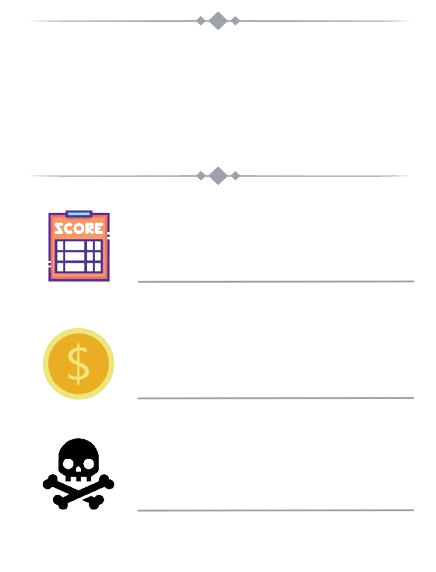
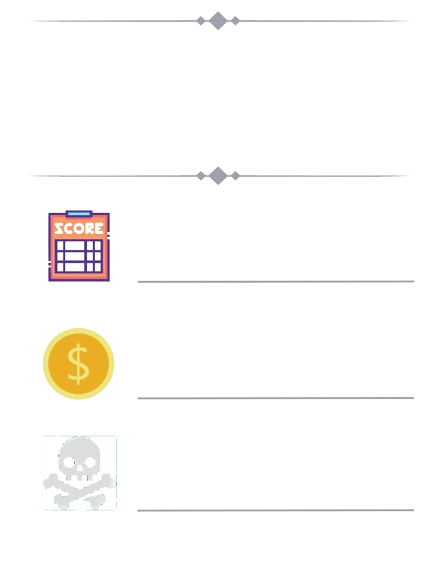
Changed player panel

Changed region(s): [[0.0894, 0.743, 0.2683, 0.8916]]

diff --git a/src/main/java/view/BoardView.java b/src/main/java/view/BoardView.java
@@ -15,30 +15,63 @@ public class BoardView {
 	private TooltipModule tooltips;
 	private Text wave;
 
+	private Sprite sponsor;
+	private Sprite logo;
+
 	public BoardView(Board board, GraphicEntityModule graphics, TooltipModule tooltips) {
 		int width = 1920;
 		int height = 1080;
 
-		graphics.createRectangle().setFillColor(0xebebfb).setHeight(height).setWidth(width);
+		int boardBackgroundColor = 0xebebeb;
+		int dashboardBackgroundColor = 0x1f0342;
+//		int dashboardBackgroundColor = 0x3e0684;
+
+		graphics.createRectangle().setFillColor(dashboardBackgroundColor)
+				.setWidth(width)
+				.setHeight(height);
+
+		graphics.createRectangle().setFillColor(boardBackgroundColor)
+				.setWidth(width)
+				.setHeight(height)
+				.setX(Constants.BOARD_DASH_WIDTH * 4/3);
+
 		this.board = board;
 		board.setView(this);
 		this.graphics = graphics;
 		this.tooltips = tooltips;
 
-		wave =
-				graphics.createText("").setAnchor(0.5).setFillColor(0x000000).setFontSize(40).setStrokeColor(0x000000).setStrokeThickness(0.0).setX(Constants.BOARD_DASH_WIDTH / 2).setY(graphics.getWorld().getHeight() / 2);
+//		wave = graphics.createText("").setAnchor(0.5).setFillColor(0x000000).setFontSize(40).setStrokeColor(0x000000).setStrokeThickness(0.0).setX(Constants.BOARD_DASH_WIDTH / 2).setY(graphics
+//		.getWorld().getHeight() / 2);
 
+		// The images of the sponsor and the event...
+		int yOffset = 100;
 
+		sponsor = graphics.createSprite().setImage("logo_kinetik.png")
+				.setAnchorX(0.8)
+				.setAnchorY(1)
+				.setScale(0.5)
+				.setX(Constants.BOARD_DASH_WIDTH / 2)
+				.setY((graphics.getWorld().getHeight() / 2) - yOffset + 40);
+
+		logo = graphics.createSprite().setImage("logo_carnival.png")
+				.setAnchorX(0.5)
+				.setAnchorY(0)
+				.setScale(0.8)
+				.setX(Constants.BOARD_DASH_WIDTH / 2)
+				.setY(graphics.getWorld().getHeight() / 2 - yOffset);
+		// ==========================================
 
 		double g = graphics.getWorld().getHeight();
 
 		boardGroup = graphics.createGroup();
 
 		boardGroup.setScale((double) graphics.getWorld().getHeight() / (board.getHeight() * CELL_SIZE));
-		boardGroup.setX(graphics.getWorld().getWidth() - graphics.getWorld().getHeight() * (1 + Constants.MAP_HEIGHT) / Constants.MAP_HEIGHT);
+//		boardGroup.setX(graphics.getWorld().getWidth() - graphics.getWorld().getHeight() * (1 + Constants.MAP_HEIGHT) / Constants.MAP_HEIGHT);
 		boardGroup.setX((int) (Constants.BOARD_DASH_WIDTH * 4/3));
+
 		Group gridGroup = graphics.createGroup();
 		boardGroup.add(gridGroup);
+
 		Group innerGroup = graphics.createGroup();
 		gridGroup.add(innerGroup);
 
@@ -87,13 +120,17 @@ public class BoardView {
 		TowerView view = tower.createView(boardGroup, graphics, tooltips);
 	}
 
+//	public void updateView() {
+////		String text = board.getWaveInfo();
+//		String text = "HELLOOO";
+//		// Debug....
+////		String text = "" + graphics.getWorld().getWidth() + ", " + graphics.getWorld().getHeight();
+//		// end Debug....
+//		if (!text.equals(wave.getText()))
+//			wave.setText(text);
+//	}
+
 	public void updateView() {
-//		String text = board.getWaveInfo();
-		String text = "HELLOOO";
-		// Debug....
-//		String text = "" + graphics.getWorld().getWidth() + ", " + graphics.getWorld().getHeight();
-		// end Debug....
-		if (!text.equals(wave.getText()))
-			wave.setText(text);
+		// It's here, because it doesn't break the code...
 	}
 }

diff --git a/src/main/java/view/PlayerView.java b/src/main/java/view/PlayerView.java
@@ -41,9 +41,14 @@ public class PlayerView {
 	public void createPlayerView() {
 		int baseWidth = 713;
 		int baseHeight = 367;
+		int textColor = 0xEDE0C9;
 
 		Sprite frame =
-				graphics.createSprite().setZIndex(-10000).setImage("panel.png").setTint(0xebebeb).setX(0).setY(0).setBaseWidth((int) (Constants.BOARD_DASH_WIDTH)).setBaseHeight(Constants.BOARD_DASH_HEIGHT);
+				graphics.createSprite().setZIndex(-10000).setImage("panel.png")
+						.setX(0)
+						.setY(0)
+						.setBaseWidth(Constants.BOARD_DASH_WIDTH)
+						.setBaseHeight(Constants.BOARD_DASH_HEIGHT);
 //		avatar = graphics.createSprite().setAnchor(0.5).setBaseHeight(0).setBaseWidth(0).setImage(player.getAvatarToken()).setX(132).setY(239).setZIndex(20);
 
 		//background = entityModule.createSprite().setAnchor(0).setImage("HUD_" + color + ".png").setX(238 - 50 - PLAYER_AVATAR_RADIUS / 2).setY(baseY);
@@ -63,31 +68,34 @@ public class PlayerView {
 						.setFillColor(player.getColor())
 						.setZIndex(-1);
 //		int textPos = 490;
-		int textPos = (int) (Constants.BOARD_DASH_WIDTH * 0.68723 * 0.8);
+//		int textPos = (int) (Constants.BOARD_DASH_WIDTH * 0.68723 * 0.8);
 		int textStartX = 120;
 		int textYGap = 70;
 		int fontsize = 35;
 
 		coins = graphics.createText("")
 				.setAnchorY(0.5)
-				.setFillColor(0x000000).setFontSize(fontsize)
-				.setStrokeColor(0x000000).setStrokeThickness(1.0)
+				.setFillColor(textColor).setFontSize(fontsize)
+				.setStrokeColor(0x000000)
+				.setStrokeThickness(1.0)
 				.setX(textStartX)
 				.setY(154)
 				.setTextAlign(TextBasedEntity.TextAlign.LEFT);
 
 		scores = graphics.createText("")
 						.setAnchorY(0.5)
-						.setFillColor(0x000000).setFontSize(fontsize)
-						.setStrokeColor(0x000000).setStrokeThickness(1.0)
+						.setFillColor(textColor).setFontSize(fontsize)
+						.setStrokeColor(0x000000)
+						.setStrokeThickness(1.0)
 						.setX(textStartX)
 						.setY(coins.getY() + textYGap)
 						.setTextAlign(TextBasedEntity.TextAlign.LEFT);
 
 		killCount = graphics.createText("")
 						.setAnchorY(0.5)
-						.setFillColor(0x000000).setFontSize(fontsize)
-						.setStrokeColor(0x000000).setStrokeThickness(0.0)
+						.setFillColor(textColor).setFontSize(fontsize)
+						.setStrokeColor(0x000000)
+						.setStrokeThickness(0.0)
 						.setX(textStartX)
 						.setY(scores.getY() + textYGap)
 						.setZIndex(-1)
